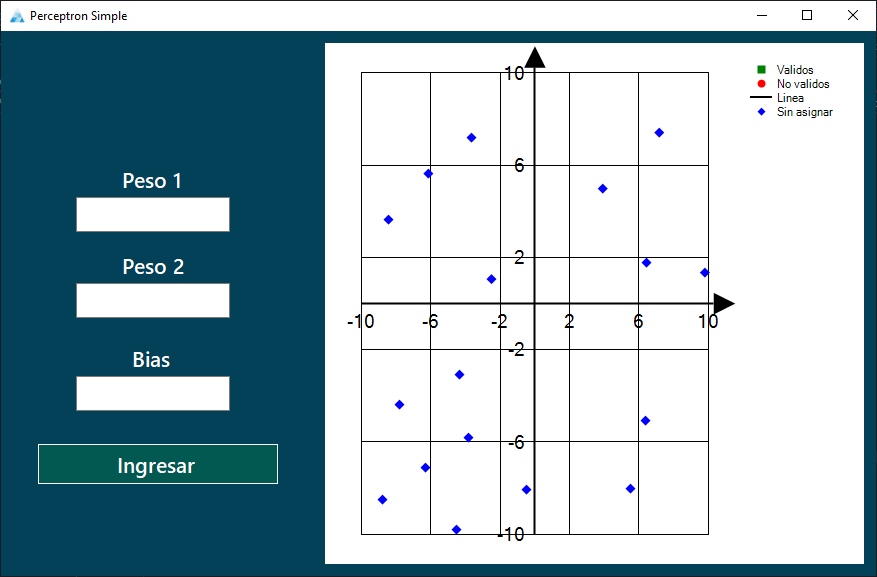
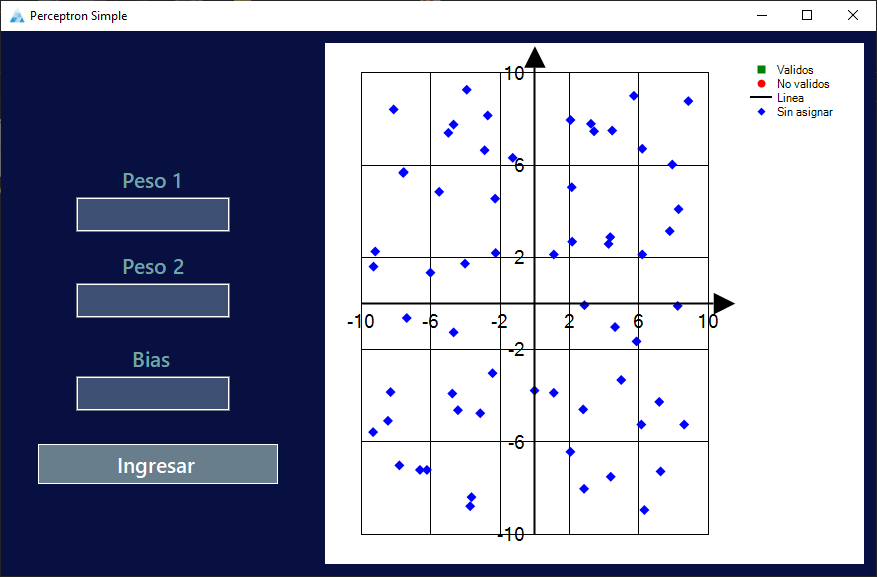
Correcion de errores y cambio de diseño

diff --git a/Perceptron.Designer.cs b/Perceptron.Designer.cs
@@ -101,7 +101,9 @@
             // 
             this.tbxPeso1.Anchor = ((System.Windows.Forms.AnchorStyles)(((System.Windows.Forms.AnchorStyles.Top | System.Windows.Forms.AnchorStyles.Bottom) 
             | System.Windows.Forms.AnchorStyles.Left)));
+            this.tbxPeso1.BackColor = System.Drawing.Color.FromArgb(((int)(((byte)(61)))), ((int)(((byte)(79)))), ((int)(((byte)(115)))));
             this.tbxPeso1.Font = new System.Drawing.Font("Yu Gothic UI Semibold", 15.75F, System.Drawing.FontStyle.Bold, System.Drawing.GraphicsUnit.Point, ((byte)(0)));
+            this.tbxPeso1.ForeColor = System.Drawing.Color.FromArgb(((int)(((byte)(242)))), ((int)(((byte)(238)))), ((int)(((byte)(174)))));
             this.tbxPeso1.Location = new System.Drawing.Point(75, 166);
             this.tbxPeso1.Name = "tbxPeso1";
             this.tbxPeso1.Size = new System.Drawing.Size(154, 35);
@@ -114,7 +116,7 @@
             | System.Windows.Forms.AnchorStyles.Left)));
             this.label1.AutoSize = true;
             this.label1.Font = new System.Drawing.Font("Yu Gothic UI Semibold", 15.75F, System.Drawing.FontStyle.Bold, System.Drawing.GraphicsUnit.Point, ((byte)(0)));
-            this.label1.ForeColor = System.Drawing.Color.White;
+            this.label1.ForeColor = System.Drawing.Color.FromArgb(((int)(((byte)(114)))), ((int)(((byte)(166)))), ((int)(((byte)(166)))));
             this.label1.Location = new System.Drawing.Point(116, 133);
             this.label1.Name = "label1";
             this.label1.Size = new System.Drawing.Size(72, 30);
@@ -128,7 +130,7 @@
             | System.Windows.Forms.AnchorStyles.Left)));
             this.label2.AutoSize = true;
             this.label2.Font = new System.Drawing.Font("Yu Gothic UI Semibold", 15.75F, System.Drawing.FontStyle.Bold, System.Drawing.GraphicsUnit.Point, ((byte)(0)));
-            this.label2.ForeColor = System.Drawing.Color.White;
+            this.label2.ForeColor = System.Drawing.Color.FromArgb(((int)(((byte)(114)))), ((int)(((byte)(166)))), ((int)(((byte)(166)))));
             this.label2.Location = new System.Drawing.Point(116, 219);
             this.label2.Name = "label2";
             this.label2.Size = new System.Drawing.Size(76, 30);
@@ -140,7 +142,9 @@
             // 
             this.tbxPeso2.Anchor = ((System.Windows.Forms.AnchorStyles)(((System.Windows.Forms.AnchorStyles.Top | System.Windows.Forms.AnchorStyles.Bottom) 
             | System.Windows.Forms.AnchorStyles.Left)));
+            this.tbxPeso2.BackColor = System.Drawing.Color.FromArgb(((int)(((byte)(61)))), ((int)(((byte)(79)))), ((int)(((byte)(115)))));
             this.tbxPeso2.Font = new System.Drawing.Font("Yu Gothic UI Semibold", 15.75F, System.Drawing.FontStyle.Bold, System.Drawing.GraphicsUnit.Point, ((byte)(0)));
+            this.tbxPeso2.ForeColor = System.Drawing.Color.FromArgb(((int)(((byte)(242)))), ((int)(((byte)(238)))), ((int)(((byte)(174)))));
             this.tbxPeso2.Location = new System.Drawing.Point(75, 252);
             this.tbxPeso2.Name = "tbxPeso2";
             this.tbxPeso2.Size = new System.Drawing.Size(154, 35);
@@ -149,7 +153,7 @@
             // 
             // btnIngresar
             // 
-            this.btnIngresar.BackColor = System.Drawing.Color.FromArgb(((int)(((byte)(2)))), ((int)(((byte)(89)))), ((int)(((byte)(81)))));
+            this.btnIngresar.BackColor = System.Drawing.Color.FromArgb(((int)(((byte)(104)))), ((int)(((byte)(126)))), ((int)(((byte)(140)))));
             this.btnIngresar.FlatStyle = System.Windows.Forms.FlatStyle.Flat;
             this.btnIngresar.Font = new System.Drawing.Font("Yu Gothic UI Semibold", 15.75F, System.Drawing.FontStyle.Bold, System.Drawing.GraphicsUnit.Point, ((byte)(0)));
             this.btnIngresar.ForeColor = System.Drawing.Color.White;
@@ -165,7 +169,9 @@
             // 
             this.tbxBias.Anchor = ((System.Windows.Forms.AnchorStyles)(((System.Windows.Forms.AnchorStyles.Top | System.Windows.Forms.AnchorStyles.Bottom) 
             | System.Windows.Forms.AnchorStyles.Left)));
+            this.tbxBias.BackColor = System.Drawing.Color.FromArgb(((int)(((byte)(61)))), ((int)(((byte)(79)))), ((int)(((byte)(115)))));
             this.tbxBias.Font = new System.Drawing.Font("Yu Gothic UI Semibold", 15.75F, System.Drawing.FontStyle.Bold, System.Drawing.GraphicsUnit.Point, ((byte)(0)));
+            this.tbxBias.ForeColor = System.Drawing.Color.FromArgb(((int)(((byte)(242)))), ((int)(((byte)(238)))), ((int)(((byte)(174)))));
             this.tbxBias.Location = new System.Drawing.Point(75, 345);
             this.tbxBias.Name = "tbxBias";
             this.tbxBias.Size = new System.Drawing.Size(154, 35);
@@ -178,7 +184,7 @@
             | System.Windows.Forms.AnchorStyles.Left)));
             this.label3.AutoSize = true;
             this.label3.Font = new System.Drawing.Font("Yu Gothic UI Semibold", 15.75F, System.Drawing.FontStyle.Bold, System.Drawing.GraphicsUnit.Point, ((byte)(0)));
-            this.label3.ForeColor = System.Drawing.Color.White;
+            this.label3.ForeColor = System.Drawing.Color.FromArgb(((int)(((byte)(114)))), ((int)(((byte)(166)))), ((int)(((byte)(166)))));
             this.label3.Location = new System.Drawing.Point(126, 312);
             this.label3.Name = "label3";
             this.label3.Size = new System.Drawing.Size(51, 30);
@@ -186,11 +192,11 @@
             this.label3.Text = "Bias";
             this.label3.TextAlign = System.Drawing.ContentAlignment.TopCenter;
             // 
-            // Form1
+            // Perceptron
             // 
             this.AutoScaleDimensions = new System.Drawing.SizeF(6F, 13F);
             this.AutoScaleMode = System.Windows.Forms.AutoScaleMode.Font;
-            this.BackColor = System.Drawing.Color.FromArgb(((int)(((byte)(3)))), ((int)(((byte)(65)))), ((int)(((byte)(89)))));
+            this.BackColor = System.Drawing.Color.FromArgb(((int)(((byte)(7)))), ((int)(((byte)(16)))), ((int)(((byte)(64)))));
             this.ClientSize = new System.Drawing.Size(875, 545);
             this.Controls.Add(this.tbxBias);
             this.Controls.Add(this.label3);
@@ -201,8 +207,9 @@
             this.Controls.Add(this.tbxPeso1);
             this.Controls.Add(this.chart2);
             this.Icon = ((System.Drawing.Icon)(resources.GetObject("$this.Icon")));
-            this.Name = "Form1";
+            this.Name = "Perceptron";
             this.Text = "Perceptron Simple";
+            this.WindowState = System.Windows.Forms.FormWindowState.Maximized;
             ((System.ComponentModel.ISupportInitialize)(this.chart2)).EndInit();
             this.ResumeLayout(false);
             this.PerformLayout();

diff --git a/Perceptron.cs b/Perceptron.cs
@@ -17,9 +17,9 @@ namespace PerceptronSimple
         private List<double> valorY = new List<double>();
 
         private double w0 = 1;
-        private double w1 = 1;
-        private double w2 = 1;
-        private double b = -1.5;
+        private double w1 = 0;
+        private double w2 = 0;
+        private double b = 0;
 
         public Perceptron()
         {
@@ -40,7 +40,6 @@ namespace PerceptronSimple
             chart2.ChartAreas[0].AxisY.LineWidth= 2;
             chart2.ChartAreas[0].AxisX.LabelAutoFitMinFontSize = 14;
             chart2.ChartAreas[0].AxisY.LabelAutoFitMinFontSize = 14;
-
 
             //Colores
             chart2.Series[0].Color = Color.Green;
@@ -86,7 +85,7 @@ namespace PerceptronSimple
 
             for (int i = 0; i < valorX.Count; i++)
             {
-                if (ValidarEstado(valorX[i], valorY[i]))
+                if (FuncionDeActivacion(valorX[i], valorY[i]))
                 {
                     chart2.Series[0].Points.AddXY(valorX[i], valorY[i]);
                 }
@@ -107,7 +106,7 @@ namespace PerceptronSimple
 
         #region Validaciones
 
-        private bool ValidarEstado(double x, double y)
+        private bool FuncionDeActivacion(double x, double y)
         {
             return (w0 * b) + (x * w1) + (y * w2) >= 0;
         }
